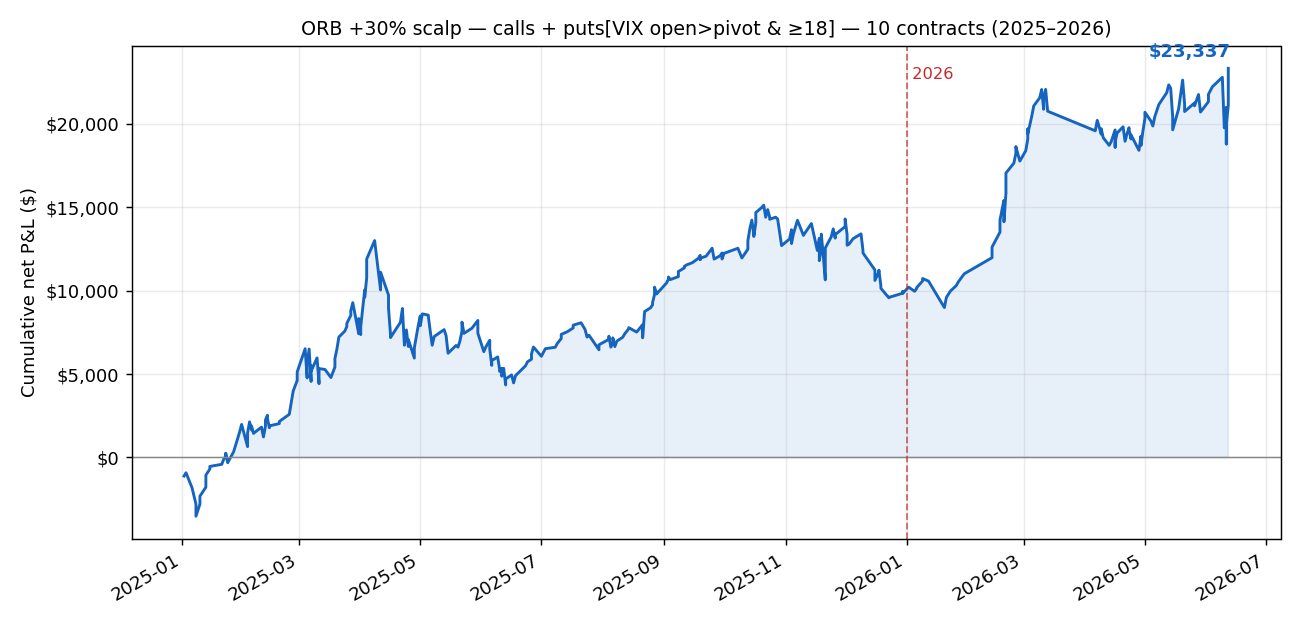
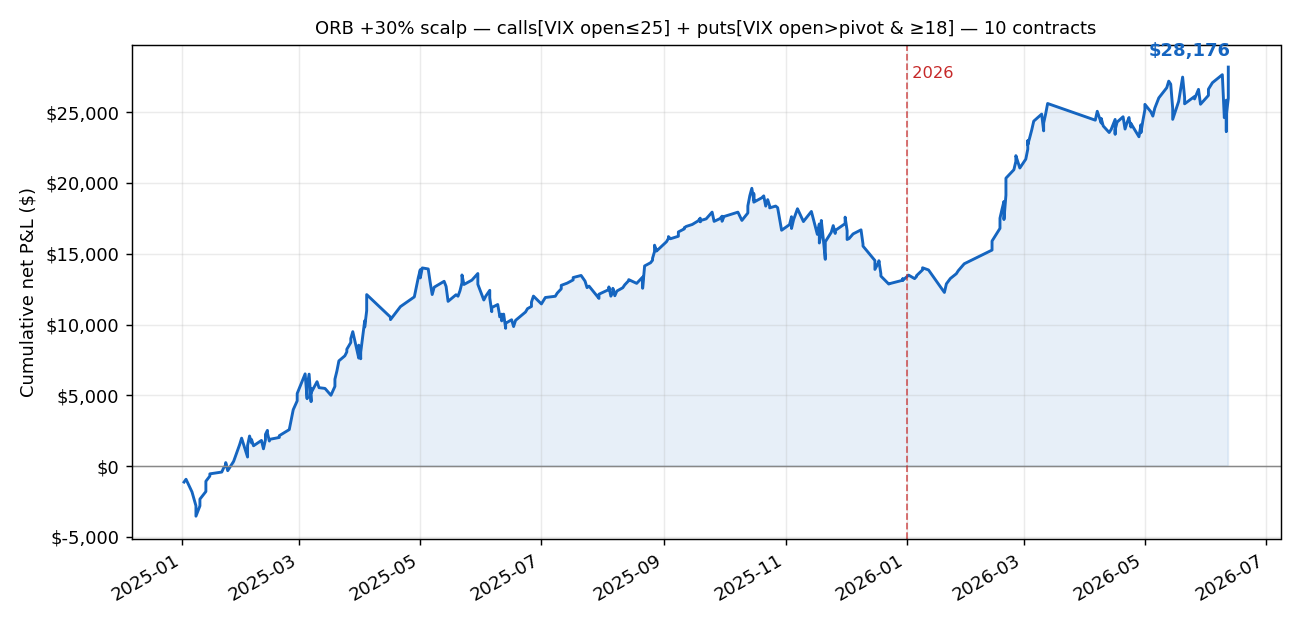
Add VIX-open>25 call filter (skip calls in panic regime)
Calls are now skipped when VIX opens above 25 -- the regime where the long
breakout fails hardest (calls lose ~$69/day at 36% win rate; it was the entire
drag on the call side, e.g. the April-2025 selloff). Puts still trade on those
days (they hedge the fear regime), so the two VIX gates are complementary.

10-contract backtest (net of commissions):
  2025:  +$13,119   2026: +$15,056   combined: +$28,176
  (was +$23,337; the call ceiling adds +$4,839, mostly by removing panic-day losses)

Progression: +$14,539 (calls only) -> +$18,952 (put pivot gate)
  -> +$23,337 (+VIX-open>=18 put floor) -> +$28,176 (+skip calls VIX open>25).

Updates equity_curve.py (VIX_MAX_CALLS=25 + vix_call_skip_days), regenerates
equity_curve.png, refreshes the README Backtest section.

diff --git a/ibkr/orb_vwap_filter/equity_curve.py b/ibkr/orb_vwap_filter/equity_curve.py
@@ -2,7 +2,8 @@
 equity_curve.py — Portfolio (equity) curve for the recommended strategy at 10 contracts.
 
 Strategy: ORB +30% scalp, OTM-1, -75% stop, OR>=$1, 3 trades/day.
-  - CALLS  : taken every day on an upside opening-range breakout
+  - CALLS  : upside opening-range breakout, but SKIPPED when VIX opens > 25 (panic
+             regime: calls lose ~$69/day at 36% win rate there)
   - PUTS   : taken only on days where VIX OPENED ABOVE its pivot AND VIX open >= 18
              (a genuine risk-off open, known at 9:30 -> no look-ahead). The >=18 floor
              removes low-vol "false fear" days where shorts just bleed; per-VIX-regime
@@ -32,18 +33,22 @@ from grid_search_nocpr import build_ctx, to_min, COMMISSION
 _HERE = os.path.dirname(os.path.abspath(__file__))
 CONTRACTS = 10
 DAILY_CAP = 1000 * CONTRACTS
-VIX_MIN_OPEN = 18.0          # absolute floor: only take gated puts when VIX open >= this
+VIX_MIN_OPEN = 18.0          # put floor:  only take gated puts when VIX open >= this
+VIX_MAX_CALLS = 25.0         # call ceiling: skip CALLS when VIX open > this (panic regime)
 CFG = {"tpd": 3, "split": [CONTRACTS], "tgts": [30], "sl": 75, "otm": 1,
        "or_floor": 1.0, "dir": "both"}
 
 
-def vix_put_days(path=os.path.join(_HERE, "vix_daily.csv"), vix_min=VIX_MIN_OPEN):
-    """Dates where VIX opened ABOVE its (prior-day) CPR pivot AND VIX open >= vix_min."""
-    rows = []
-    for r in csv.DictReader(open(path)):
-        rows.append((r["date"], float(r["open"]), float(r["high"]),
-                     float(r["low"]), float(r["close"])))
+def _vix_rows(path=os.path.join(_HERE, "vix_daily.csv")):
+    rows = [(r["date"], float(r["open"]), float(r["high"]), float(r["low"]), float(r["close"]))
+            for r in csv.DictReader(open(path))]
     rows.sort()
+    return rows
+
+
+def vix_put_days(vix_min=VIX_MIN_OPEN):
+    """Dates where VIX opened ABOVE its (prior-day) CPR pivot AND VIX open >= vix_min."""
+    rows = _vix_rows()
     out = set()
     for i in range(1, len(rows)):
         d, o, h, l, c = rows[i]
@@ -53,7 +58,13 @@ def vix_put_days(path=os.path.join(_HERE, "vix_daily.csv"), vix_min=VIX_MIN_OPEN
     return out
 
 
+def vix_call_skip_days(vix_max=VIX_MAX_CALLS):
+    """Dates where VIX opened above vix_max -> skip CALLS (panic regime, -69$/day, 36% WR)."""
+    return {d for d, o, h, l, c in _vix_rows() if o > vix_max}
+
+
 VIX_PUT_DAYS = vix_put_days()
+VIX_CALL_SKIP_DAYS = vix_call_skip_days()
 
 
 def sim_eq(ctx, c, cap):
@@ -110,7 +121,8 @@ def sim_eq(ctx, c, cap):
             vw = vwap[i]
             if vw is None:
                 continue
-            if px > rhigh and px > vw and dirf in ("both", "call"):
+            if (px > rhigh and px > vw and dirf in ("both", "call")
+                    and ctx["date"] not in VIX_CALL_SKIP_DAYS):     # no calls when VIX open > 25
                 d_ = "call"; strike = round(px) + otm; arr = ctx["call"].get(strike)
             elif (px < rlow and px < vw and dirf in ("both", "put")
                   and ctx["date"] in VIX_PUT_DAYS):                # puts only on VIX open>pivot & >=18
@@ -169,8 +181,8 @@ def main():
     yb = datetime(2026, 1, 1)
     ax.axvline(yb, color="#c62828", ls="--", lw=1, alpha=0.7)
     ax.text(yb, ax.get_ylim()[1] * 0.92, " 2026", color="#c62828", fontsize=9)
-    ax.set_title("ORB +30% scalp — calls + puts[VIX open>pivot & ≥18] — 10 contracts (2025–2026)",
-                 fontsize=10.5)
+    ax.set_title("ORB +30% scalp — calls[VIX open≤25] + puts[VIX open>pivot & ≥18] — 10 contracts",
+                 fontsize=10)
     ax.set_ylabel("Cumulative net P&L ($)")
     ax.yaxis.set_major_formatter(matplotlib.ticker.FuncFormatter(lambda v, _: f"${v:,.0f}"))
     ax.xaxis.set_major_formatter(mdates.DateFormatter("%Y-%m"))

diff --git a/ibkr/orb_vwap_filter/README.md b/ibkr/orb_vwap_filter/README.md
@@ -119,29 +119,34 @@ making in 2026** — the edge lives in a few trend days.
 
 The configuration grid search ([GRID_SEARCH.md](GRID_SEARCH.md)) found a CPR-free
 **+30% scalp** (`OTM-1 · +30% target · −75% stop · OR ≥ $1 · 3 trades/day`) that is
-net-positive (after commissions) in both years. The directional split is:
+net-positive (after commissions) in both years.
 
-- **Calls** — taken every day on an upside opening-range breakout.
-- **Puts** — taken **only on days where VIX opens above its pivot AND VIX open ≥ 18**
-  (a genuine risk-off open, known at 9:30 → no look-ahead; VIX pivot =
-  `(prevH+prevL+prevC)/3`, from [`vix_daily.csv`](vix_daily.csv)). Unfiltered puts lose
-  every year, and even pivot-gated puts bleed in low vol; per-regime analysis showed shorts
-  only earn their keep at VIX ≥ ~18, so the floor removes the "false fear" low-vol days.
+VIX (from [`vix_daily.csv`](vix_daily.csv), pivot = `(prevH+prevL+prevC)/3`) gates **both**
+sides, using only the **VIX open** (known at 9:30 → no look-ahead):
 
-Sized at **10 contracts** (daily-loss cap scaled to $10,000 to match size), net of
-$0.65/contract/side — reproduce with [`equity_curve.py`](equity_curve.py):
+- **Calls** — upside opening-range breakout, **skipped when VIX opens > 25** (the panic
+  regime: calls lose ~$69/day at a 36% win rate there — it's the entire drag on the call side).
+- **Puts** — taken **only when VIX opens above its pivot AND VIX open ≥ 18** (a genuine
+  risk-off open). Unfiltered puts lose every year and even pivot-gated puts bleed in low
+  vol; shorts only earn their keep at VIX ≥ ~18, so the floor removes "false fear" days.
 
-![Cumulative net P&L — calls + VIX-gated puts, 10 contracts](equity_curve.png)
+The two gates are complementary: calls carry the calm/trending regimes, puts hedge the
+high-vol fear regime where calls fail. Sized at **10 contracts** (daily-loss cap scaled to
+$10,000 to match size), net of $0.65/contract/side — reproduce with
+[`equity_curve.py`](equity_curve.py):
+
+![Cumulative net P&L — VIX-gated calls + puts, 10 contracts](equity_curve.png)
 
 | | 2025 | 2026 (Jan–Jun) | Combined |
 |---|---:|---:|---:|
-| **Net P&L** | **+$9,841** | **+$13,496** | **+$23,337** |
-| Trades / days | 258 / 177 | 93 / 67 | — |
-| Day win rate | 62% | 67% | — |
+| **Net P&L** | **+$13,119** | **+$15,056** | **+$28,176** |
+| Trades / days | 242 / 169 | 92 / 66 | — |
+| Day win rate | 63% | 68% | — |
 
-The VIX gate lifts the combined 2-year result from **+$14,539** (calls only) → **+$18,952**
-(pivot gate) → **+$23,337** with the VIX-open ≥ 18 floor added. The floor barely touches
-2025 (−$347) but adds **+$4,732 in 2026** by cutting the low-vol put bleed.
+Progression of the combined 2-year result as each gate is added:
+**+$14,539** (calls only) → **+$18,952** (puts: VIX open > pivot) → **+$23,337**
+(+ VIX-open ≥ 18 put floor) → **+$28,176** (+ skip calls when VIX open > 25). The call
+ceiling alone adds **+$4,839** by removing the April-2025-style panic-day losses.
 
 ⚠ Still a **long-biased** strategy harvesting the 2025–26 QQQ uptrend; the VIX gate adds a
 short side only on risk-off days. It was ≈ breakeven-to-negative in 2024 and would likely
